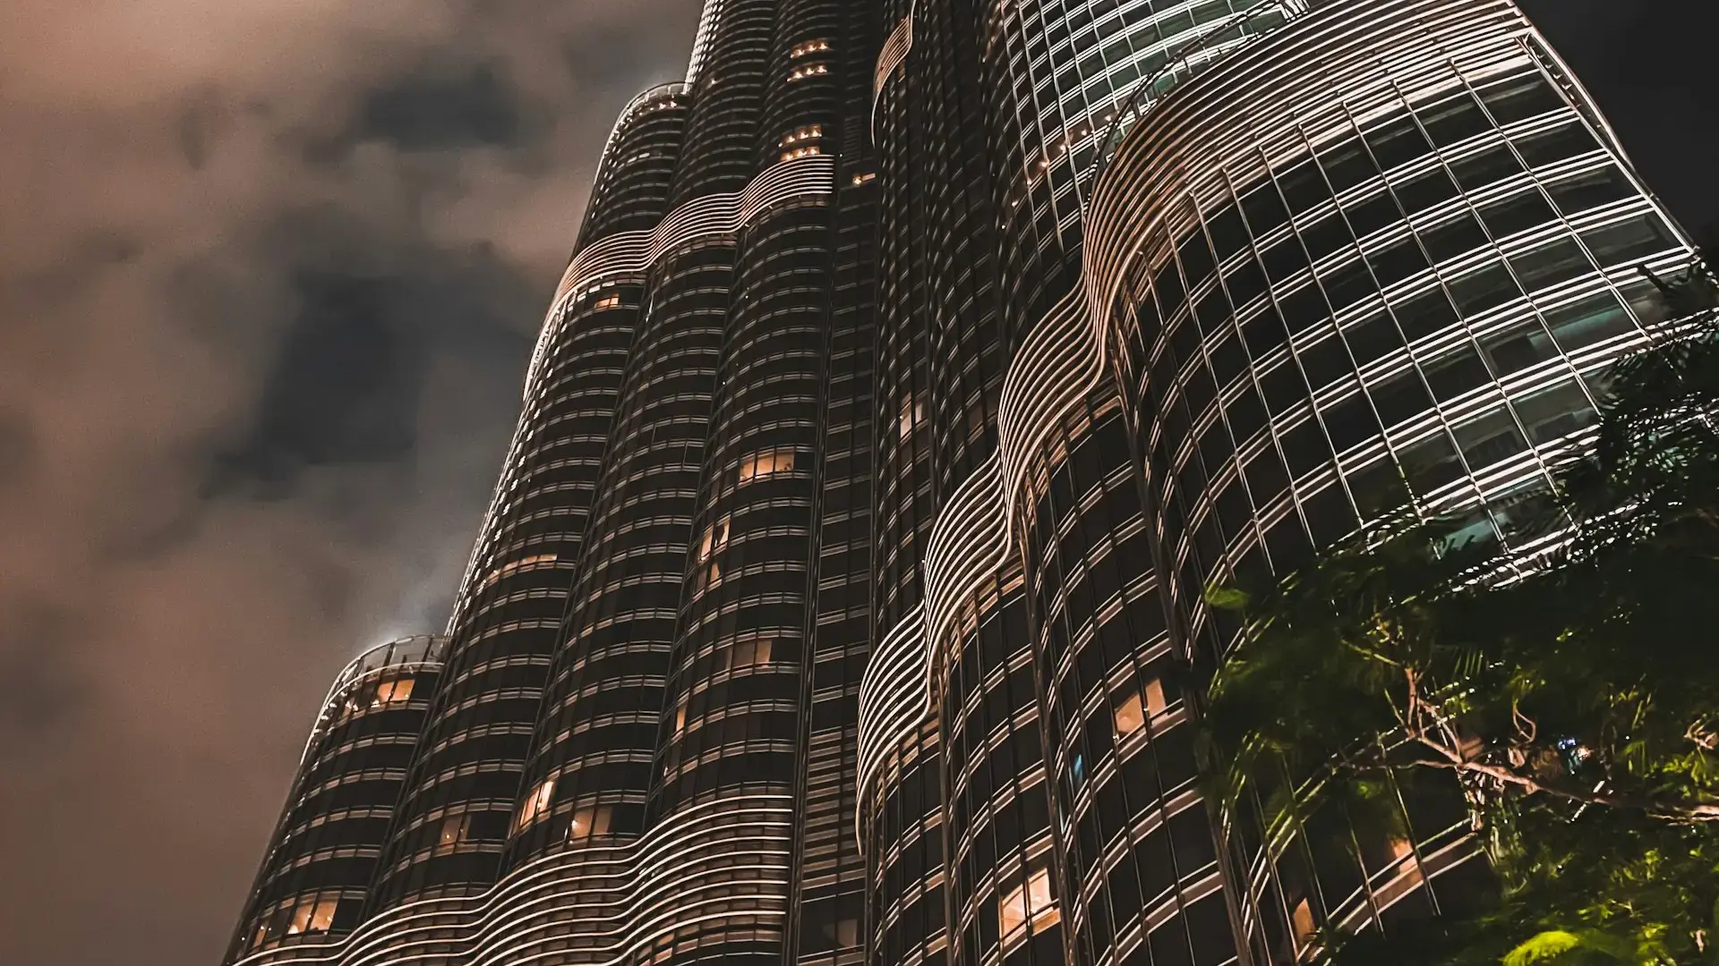
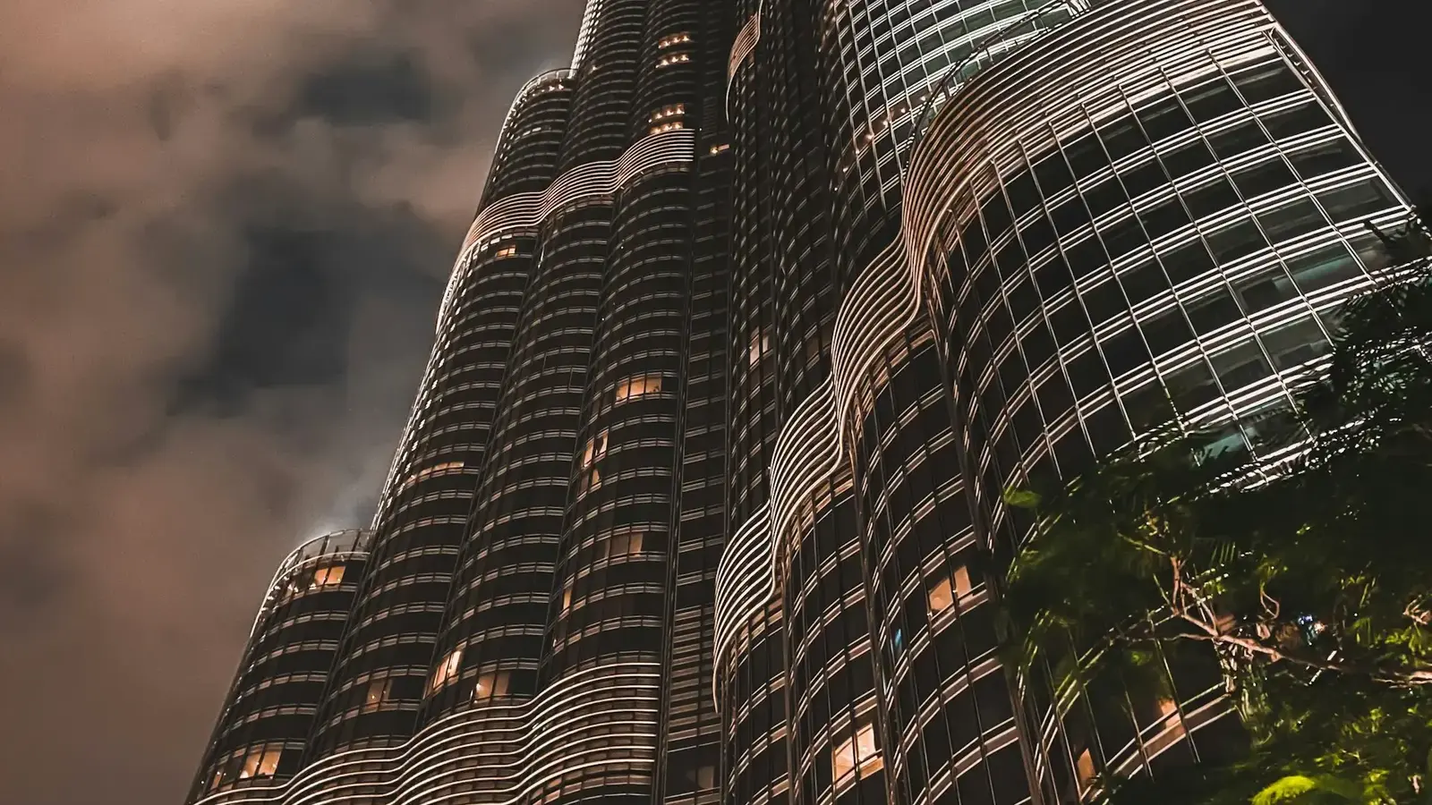
Remove top bar, 16-slide faster hero, 3D feature boxes, mobile single-row sliders, one-row buttons
Claude-Session: https://claude.ai/code/session_017Zx5MrG8DFua7md2Xi5BTB

Changed region(s): [[0.5938, 0.0, 0.6562, 0.1556], [0.3438, 0.1556, 0.4688, 0.28], [0.5, 0.7156, 0.5312, 0.7467]]

diff --git a/index.html b/index.html
@@ -21,7 +21,7 @@
 <div id="site-header"></div>
 <main id="main">
 <section class="hero">
-  <div class="hero__slides"><div class="hero__slide is-active" data-caption="Dubai · UAE"><img src="assets/img/dubai-skyline.webp" alt="Dubai skyline at dusk" fetchpriority="high"></div><div class="hero__slide" data-caption="General Contracting"><img src="assets/img/hero-construction.webp" alt="Tower cranes over a high-rise under construction" loading="lazy"></div><div class="hero__slide" data-caption="Villas &amp; Residential"><img src="assets/img/hero-villa.webp" alt="Modern luxury villa with pool" loading="lazy"></div><div class="hero__slide" data-caption="Project Management"><img src="assets/img/hero-engineers.webp" alt="Engineers reviewing progress on site" loading="lazy"></div><div class="hero__slide" data-caption="Steel Structures"><img src="assets/img/steel-structure.webp" alt="Steel structure erection" loading="lazy"></div><div class="hero__slide" data-caption="Commercial Towers"><img src="assets/img/hero-burj.webp" alt="Burj Khalifa and downtown Dubai" loading="lazy"></div><div class="hero__slide" data-caption="Interior Fit-Out"><img src="assets/img/fitout-office.webp" alt="Premium office interior fit-out" loading="lazy"></div><div class="hero__slide" data-caption="Infrastructure"><img src="assets/img/hero-cranes-dusk.webp" alt="Cranes against the evening sky" loading="lazy"></div></div>
+  <div class="hero__slides"><div class="hero__slide is-active" data-caption="Dubai · UAE"><img src="assets/img/dubai-skyline.webp" alt="Dubai skyline at dusk" fetchpriority="high"></div><div class="hero__slide" data-caption="General Contracting"><img src="assets/img/hero-construction.webp" alt="Tower cranes over a high-rise under construction"></div><div class="hero__slide" data-caption="Villas &amp; Residential"><img src="assets/img/hero-villa.webp" alt="Modern luxury villa with pool" loading="lazy"></div><div class="hero__slide" data-caption="Project Management"><img src="assets/img/hero-engineers.webp" alt="Engineers reviewing progress on site" loading="lazy"></div><div class="hero__slide" data-caption="Structural Works"><img src="assets/img/hero-frame.webp" alt="Building frame under construction" loading="lazy"></div><div class="hero__slide" data-caption="Interior Fit-Out"><img src="assets/img/hero-interior.webp" alt="Luxury residential interior" loading="lazy"></div><div class="hero__slide" data-caption="Commercial Towers"><img src="assets/img/hero-burj.webp" alt="Burj Khalifa and downtown Dubai" loading="lazy"></div><div class="hero__slide" data-caption="Civil Works"><img src="assets/img/hero-rebar.webp" alt="Workers fixing reinforcement on site" loading="lazy"></div><div class="hero__slide" data-caption="Turnkey Villas"><img src="assets/img/hero-villa-pool.webp" alt="Contemporary villa with infinity pool" loading="lazy"></div><div class="hero__slide" data-caption="Steel Structures"><img src="assets/img/steel-structure.webp" alt="Steel structure erection" loading="lazy"></div><div class="hero__slide" data-caption="Residential Fit-Out"><img src="assets/img/hero-kitchen.webp" alt="Premium kitchen fit-out" loading="lazy"></div><div class="hero__slide" data-caption="Site Management"><img src="assets/img/hero-siteteam.webp" alt="Site team on a construction project" loading="lazy"></div><div class="hero__slide" data-caption="Commercial Buildings"><img src="assets/img/hero-architecture.webp" alt="Modern architecture" loading="lazy"></div><div class="hero__slide" data-caption="Luxury Homes"><img src="assets/img/hero-villa-white.webp" alt="White modern villa" loading="lazy"></div><div class="hero__slide" data-caption="Infrastructure"><img src="assets/img/hero-crane-sunset.webp" alt="Crane at sunset" loading="lazy"></div><div class="hero__slide" data-caption="Development"><img src="assets/img/hero-cranes-dusk.webp" alt="Cranes against the evening sky" loading="lazy"></div></div>
   <div class="hero__grid"></div>
   <span class="hero__bgword" aria-hidden="true">BUILD</span>
   <div class="wrap">
@@ -40,12 +40,12 @@
     <div class="core"><div><strong>40+</strong><small>Years</small></div></div>
   </div>
   <div class="hero__meta"><div class="wrap">
-    <div class="hero__count"><b class="hero__cur">01</b><span>/ 08</span><em class="hero__cap">Dubai · UAE</em></div>
+    <div class="hero__count"><b class="hero__cur">01</b><span>/ 16</span><em class="hero__cap">Dubai · UAE</em></div>
     <div class="hero__dots" aria-label="Slides"></div>
     <div class="hero__arrows"><button type="button" class="hero__prev" aria-label="Previous slide"><i data-lucide="arrow-left"></i></button><button type="button" class="hero__next" aria-label="Next slide"><i data-lucide="arrow-right"></i></button></div>
   </div></div>
 </section>
-<section class="fstrip-sec"><div class="wrap"><div class="fstrip"><div class="fbox reveal" style="--d:0.00s"><span class="fbox__no">01</span><span class="cube"><i data-lucide="key-round"></i></span><div><h3>Turnkey Projects</h3><p>Design coordination to handover, under one contract.</p></div></div><div class="fbox reveal" style="--d:0.12s"><span class="fbox__no">02</span><span class="cube"><i data-lucide="badge-check"></i></span><div><h3>Assured Quality</h3><p>Inspections at every stage against approved drawings.</p></div></div><div class="fbox reveal" style="--d:0.24s"><span class="fbox__no">03</span><span class="cube"><i data-lucide="hard-hat"></i></span><div><h3>Safety First</h3><p>Strict HSE rules on every EMARCON site.</p></div></div><div class="fbox reveal" style="--d:0.36s"><span class="fbox__no">04</span><span class="cube"><i data-lucide="headset"></i></span><div><h3>24/7 Support</h3><p>Emergency maintenance response across the UAE.</p></div></div></div></div></section>
+<section class="fstrip-sec"><div class="wrap"><div class="fstrip" data-mslide><div class="fbox reveal" style="--d:0.00s"><span class="fbox__no">01</span><span class="cube"><i data-lucide="key-round"></i></span><div><h3>Turnkey Projects</h3><p>Design coordination to handover, under one contract.</p></div></div><div class="fbox reveal" style="--d:0.12s"><span class="fbox__no">02</span><span class="cube"><i data-lucide="badge-check"></i></span><div><h3>Assured Quality</h3><p>Inspections at every stage against approved drawings.</p></div></div><div class="fbox reveal" style="--d:0.24s"><span class="fbox__no">03</span><span class="cube"><i data-lucide="hard-hat"></i></span><div><h3>Safety First</h3><p>Strict HSE rules on every EMARCON site.</p></div></div><div class="fbox reveal" style="--d:0.36s"><span class="fbox__no">04</span><span class="cube"><i data-lucide="headset"></i></span><div><h3>24/7 Support</h3><p>Emergency maintenance response across the UAE.</p></div></div></div></div></section>
 
 <section class="section">
   <span class="bg-word bg-word--right" aria-hidden="true">EMARCON</span>
@@ -68,7 +68,7 @@
           <li><i data-lucide="circle-check"></i>Planning &amp; budgeting</li>
           <li><i data-lucide="circle-check"></i>On-time project handover</li>
         </ul>
-        <div style="display:flex;gap:1.5rem;align-items:center;flex-wrap:wrap;margin-top:.6rem">
+        <div class="about-cta">
           <a class="btn btn--dark" href="about.html">Read More <i data-lucide="arrow-right"></i></a>
           <a class="link-arrow" href="tel:+971543931009"><i data-lucide="phone"></i> +971 54 393 1009</a>
         </div>
@@ -205,7 +205,7 @@
   <span class="bg-word bg-word--light" aria-hidden="true">SINCE FOUR DECADES</span>
   <div class="wrap">
     <div class="section-head section-head--center"><span class="eyebrow reveal">Our legacy in numbers</span><h2 class="h-section reveal">Experience You Can <em>Build On</em></h2></div>
-    <div class="st-grid"><div class="st-card reveal" style="--d:0.00s"><span class="st-card__ico"><i data-lucide="calendar-clock"></i></span><div class="stat__num" data-count="40">40<sup>+</sup></div><div class="st-card__label">Years of legacy</div><p>Four decades of construction experience</p><span class="st-card__bar"></span></div><div class="st-card reveal" style="--d:0.12s"><span class="st-card__ico"><i data-lucide="hard-hat"></i></span><div class="stat__num" data-count="4">4<sup></sup></div><div class="st-card__label">Core services</div><p>Civil, steel, fit-out &amp; maintenance</p><span class="st-card__bar"></span></div><div class="st-card reveal" style="--d:0.24s"><span class="st-card__ico"><i data-lucide="network"></i></span><div class="stat__num" data-count="4">4<sup></sup></div><div class="st-card__label">Group companies</div><p>MEP, manufacturing, trading &amp; FM</p><span class="st-card__bar"></span></div><div class="st-card reveal" style="--d:0.36s"><span class="st-card__ico"><i data-lucide="shield-check"></i></span><div class="stat__num" data-count="24">24<sup>/7</sup></div><div class="st-card__label">Support</div><p>Emergency maintenance response</p><span class="st-card__bar"></span></div></div>
+    <div class="st-grid" data-mslide><div class="st-card reveal" style="--d:0.00s"><span class="st-card__ico"><i data-lucide="calendar-clock"></i></span><div class="stat__num" data-count="40">40<sup>+</sup></div><div class="st-card__label">Years of legacy</div><p>Four decades of construction experience</p><span class="st-card__bar"></span></div><div class="st-card reveal" style="--d:0.12s"><span class="st-card__ico"><i data-lucide="hard-hat"></i></span><div class="stat__num" data-count="4">4<sup></sup></div><div class="st-card__label">Core services</div><p>Civil, steel, fit-out &amp; maintenance</p><span class="st-card__bar"></span></div><div class="st-card reveal" style="--d:0.24s"><span class="st-card__ico"><i data-lucide="network"></i></span><div class="stat__num" data-count="4">4<sup></sup></div><div class="st-card__label">Group companies</div><p>MEP, manufacturing, trading &amp; FM</p><span class="st-card__bar"></span></div><div class="st-card reveal" style="--d:0.36s"><span class="st-card__ico"><i data-lucide="shield-check"></i></span><div class="stat__num" data-count="24">24<sup>/7</sup></div><div class="st-card__label">Support</div><p>Emergency maintenance response</p><span class="st-card__bar"></span></div></div>
   </div>
 </section>
 
@@ -217,7 +217,7 @@
       <h2 class="h-section reveal">Why You <em>Choose</em> Us</h2>
       <p class="lead reveal">EMARCON CONTRACTING LLC is incorporated in the UAE with a dynamic and strong future outlook to provide the best services in the region.</p>
     </div>
-    <div class="why-grid"><article class="w3d reveal" style="--d:0.00s" data-tilt>
+    <div class="why-grid" data-mslide><article class="w3d reveal" style="--d:0.00s" data-tilt>
       <div class="w3d__inner"><span class="w3d__no">01</span>
         <div class="w3d__icon"><span class="w3d__face"><i data-lucide="handshake"></i></span><span class="w3d__shadow"></span></div>
         <h3>Reliability</h3><p>Cost-effective solutions with a focus on long-term value.</p></div></article><article class="w3d reveal" style="--d:0.12s" data-tilt>

diff --git a/assets/css/style.css b/assets/css/style.css
@@ -1030,3 +1030,80 @@ section { position: relative; }
   .w3d h3 { font-size: 1.05rem; }
   .w3d p { font-size: .82rem; line-height: 1.5; }
 }
+
+/* =========================================================
+   v3 — separate 3D boxes, mobile single-row sliders
+   ========================================================= */
+.mslide { position: relative; }
+.is-clone { display: none !important; }
+.hero { --interval: 3s; }
+
+/* feature boxes as separate 3D cards */
+.fstrip { background: transparent; box-shadow: none; gap: 1.4rem; perspective: 1000px; }
+.fbox, .fbox + .fbox {
+  border: 1px solid rgba(201,165,91,.25); border-radius: 10px; background: var(--white);
+  box-shadow: 0 1px 0 rgba(255,255,255,.8) inset, 0 6px 0 -1px #d9c08a, 0 8px 0 -1px var(--gold-deep), 0 26px 40px -18px rgba(13,24,40,.45);
+  transform: translateZ(0) rotateX(6deg); transform-origin: bottom center;
+  transition: transform .5s var(--ease), box-shadow .5s var(--ease), color .45s;
+}
+.fbox:hover { transform: translateY(-10px) rotateX(0); box-shadow: 0 1px 0 rgba(255,255,255,.1) inset, 0 6px 0 -1px var(--gold-deep), 0 8px 0 -1px #7d5f25, 0 40px 60px -22px rgba(13,24,40,.6); }
+.fbox::before { border-radius: 10px; }
+.fbox::after { border-radius: 0 0 10px 10px; }
+.js .fbox.reveal { transform: translateY(40px) rotateX(25deg); }
+.js .fbox.reveal.is-in { transform: translateZ(0) rotateX(6deg); }
+.js .fbox.reveal.is-in:hover { transform: translateY(-10px) rotateX(0); }
+
+/* about images with depth */
+.media-stack__main { box-shadow: 0 40px 70px -30px rgba(13,24,40,.55), 0 12px 24px -12px rgba(13,24,40,.35); border-radius: 6px; }
+.media-stack__sub { box-shadow: 0 30px 60px -20px rgba(13,24,40,.6); border-radius: 6px; }
+.media-stack__tag { border-radius: 6px; box-shadow: 0 24px 40px -16px rgba(13,24,40,.7); }
+.about-cta { display: flex; gap: 1.5rem; align-items: center; flex-wrap: wrap; margin-top: .6rem; }
+
+/* hero arrows/badge spacing without topbar */
+.hero { min-height: min(860px, calc(100svh - var(--header-h))); }
+
+@media (max-width: 720px) {
+  /* hero buttons in one row */
+  .hero__actions { flex-wrap: nowrap; gap: .6rem; }
+  .hero__actions .btn { flex: 1 1 0; min-width: 0; padding: .85rem .6rem; font-size: .72rem; letter-spacing: .05em; white-space: nowrap; }
+  .hero__actions .btn svg { width: 15px; height: 15px; }
+
+  /* read more + phone in one row */
+  .about-cta { flex-wrap: nowrap; gap: .9rem; }
+  .about-cta .btn { padding: .85rem 1rem; font-size: .75rem; white-space: nowrap; }
+  .about-cta .link-arrow { font-size: .78rem; white-space: nowrap; letter-spacing: .04em; }
+
+  /* generic single-row auto slider */
+  .mslide { overflow: hidden; margin-inline: calc(-1 * max(20px, env(safe-area-inset-left, 0px))); -webkit-mask-image: linear-gradient(90deg, transparent, #000 6%, #000 94%, transparent); mask-image: linear-gradient(90deg, transparent, #000 6%, #000 94%, transparent); }
+  .mslide > [data-mslide] { display: flex !important; flex-wrap: nowrap; width: max-content; gap: 1rem; padding: 14px 0 22px; animation: mq-left var(--mspeed, 30s) linear infinite; }
+  .mslide > [data-mslide] > * { margin-right: 0; }
+  .mslide:active > [data-mslide], .mslide:hover > [data-mslide] { animation-play-state: paused; }
+  .mslide .is-clone { display: flex !important; }
+  .mslide .st-card.is-clone, .mslide .fbox.is-clone { display: flex !important; }
+  .mslide .w3d.is-clone { display: block !important; }
+  .js .mslide .reveal { opacity: 1; transform: none; }
+  /* gap trick: half-width translate must include trailing gap */
+  .mslide > [data-mslide] { padding-right: 1rem; }
+
+  .fstrip-sec { margin-top: -60px; }
+  .fstrip { --mspeed: 22s; }
+  .fstrip .fbox, .fstrip .fbox + .fbox { width: 250px; flex: none; flex-direction: row; align-items: flex-start; padding: 1.3rem 1.1rem; border: 1px solid rgba(201,165,91,.25); transform: none; }
+  .js .mslide .fbox.reveal, .js .mslide .fbox.reveal.is-in { transform: none; }
+  .fbox:nth-child(even), .fbox:nth-child(n+3) { border-left: 1px solid rgba(201,165,91,.25); border-top: 1px solid rgba(201,165,91,.25); }
+
+  .st-grid { --mspeed: 26s; }
+  .st-grid .st-card { width: 230px; flex: none; flex-direction: column; }
+  .st-card p { display: block; }
+
+  .why-grid { --mspeed: 34s; }
+  .why-grid .w3d { width: 260px; flex: none; }
+  .w3d__inner { padding: 1.8rem 1.4rem; }
+  .w3d__icon { width: 66px; height: 66px; }
+  .w3d h3 { font-size: 1.15rem; }
+  .w3d p { font-size: .88rem; }
+}
+@media (prefers-reduced-motion: reduce) {
+  .mslide > [data-mslide] { animation: none !important; }
+  .mslide { overflow-x: auto; }
+}
+@media (max-width: 720px) { .hero__arrows { display: none; } }

diff --git a/assets/js/main.js b/assets/js/main.js
@@ -45,18 +45,6 @@
 
   /* ---------- header ---------- */
   var header =
-    '<div class="topbar"><div class="wrap">' +
-      '<div class="topbar__info">' +
-        '<a href="' + tel(SITE.phones[0]) + '"><i data-lucide="phone"></i>' + SITE.phones[0] + "</a>" +
-        '<a href="mailto:' + SITE.emails[0] + '"><i data-lucide="mail"></i>' + SITE.emails[0] + "</a>" +
-        '<span class="hide-sm"><i data-lucide="map-pin"></i>' + SITE.address + "</span>" +
-      "</div>" +
-      '<div class="topbar__social"><span><i data-lucide="clock"></i>' + SITE.hours + "</span>" +
-        '<a href="' + SITE.social.facebook + '" aria-label="Facebook"><i data-lucide="facebook"></i></a>' +
-        '<a href="' + SITE.social.instagram + '" aria-label="Instagram"><i data-lucide="instagram"></i></a>' +
-        '<a href="' + SITE.social.linkedin + '" aria-label="LinkedIn"><i data-lucide="linkedin"></i></a>' +
-      "</div>" +
-    "</div></div>" +
     '<header class="header" id="header"><div class="wrap">' +
       '<a class="brand" href="index.html" aria-label="EMARCON home"><img src="assets/img/logo-dark.png" alt="EMARCON Contracting L.L.C" width="520" height="205"></a>' +
       '<nav aria-label="Main"><ul class="nav">' +
@@ -275,6 +263,15 @@
   });
   function fallbackCopy(t) { var ta = document.createElement("textarea"); ta.value = t; document.body.appendChild(ta); ta.select(); try { document.execCommand("copy"); } catch (er) {} ta.remove(); }
 
+  /* ---------- single-row auto sliders on mobile ---------- */
+  document.querySelectorAll("[data-mslide]").forEach(function (track) {
+    var vp = document.createElement("div"); vp.className = "mslide";
+    track.parentNode.insertBefore(vp, track); vp.appendChild(track);
+    Array.prototype.slice.call(track.children).forEach(function (c) {
+      var cl = c.cloneNode(true); cl.classList.add("is-clone"); cl.setAttribute("aria-hidden", "true"); track.appendChild(cl);
+    });
+  });
+
   /* ---------- reveal on scroll ---------- */
   var revealEls = document.querySelectorAll(".reveal, .img-reveal");
   if ("IntersectionObserver" in window) {
@@ -302,13 +299,14 @@
   var dotsWrap = document.querySelector(".hero__dots");
   if (slides.length > 1 && dotsWrap) {
     var heroEl = document.querySelector(".hero");
-    var INTERVAL = 4200, cur = 0, timer;
+    var INTERVAL = 3000, cur = 0, timer;
     var curEl = document.querySelector(".hero__cur"), capEl = document.querySelector(".hero__cap");
     heroEl.style.setProperty("--interval", INTERVAL / 1000 + "s");
     slides.forEach(function (_, i) { var b = document.createElement("button"); b.type = "button"; b.setAttribute("aria-label", "Slide " + (i + 1)); b.addEventListener("click", function () { go(i); }); dotsWrap.appendChild(b); });
     var dots = dotsWrap.querySelectorAll("button");
     // warm the next images so slides change instantly
-    slides.forEach(function (sl) { var im = sl.querySelector("img"); if (im) im.loading = "eager"; });
+    function preload(n) { for (var k = 1; k <= n; k++) { var im = slides[(cur + k) % slides.length].querySelector("img"); if (im && im.loading === "lazy") im.loading = "eager"; } }
+    window.addEventListener("load", function () { slides.forEach(function (sl, k) { setTimeout(function () { var im = sl.querySelector("img"); if (im) im.loading = "eager"; }, 300 + k * 150); }); });
     function go(i) {
       slides[cur].classList.remove("is-active"); dots[cur].classList.remove("is-active");
       cur = (i + slides.length) % slides.length;
@@ -316,6 +314,7 @@
       slides[cur].classList.add("is-active"); void dots[cur].offsetWidth; dots[cur].classList.add("is-active");
       if (curEl) curEl.textContent = (cur + 1 < 10 ? "0" : "") + (cur + 1);
       if (capEl) { capEl.textContent = slides[cur].getAttribute("data-caption") || ""; capEl.style.animation = "none"; void capEl.offsetWidth; capEl.style.animation = ""; }
+      preload(2);
       clearTimeout(timer); timer = setTimeout(function () { go(cur + 1); }, INTERVAL);
     }
     var pv = document.querySelector(".hero__prev"), nx = document.querySelector(".hero__next");

diff --git a/projects.html b/projects.html
@@ -144,7 +144,7 @@
     </a></div>
   </div>
 </section>
-<section class="section blueprint"><div class="wrap"><div class="st-grid"><div class="st-card reveal" style="--d:0.00s"><span class="st-card__ico"><i data-lucide="calendar-clock"></i></span><div class="stat__num" data-count="40">40<sup>+</sup></div><div class="st-card__label">Years of legacy</div><p>Four decades of construction experience</p><span class="st-card__bar"></span></div><div class="st-card reveal" style="--d:0.12s"><span class="st-card__ico"><i data-lucide="hard-hat"></i></span><div class="stat__num" data-count="4">4<sup></sup></div><div class="st-card__label">Core services</div><p>Civil, steel, fit-out &amp; maintenance</p><span class="st-card__bar"></span></div><div class="st-card reveal" style="--d:0.24s"><span class="st-card__ico"><i data-lucide="network"></i></span><div class="stat__num" data-count="4">4<sup></sup></div><div class="st-card__label">Group companies</div><p>MEP, manufacturing, trading &amp; FM</p><span class="st-card__bar"></span></div><div class="st-card reveal" style="--d:0.36s"><span class="st-card__ico"><i data-lucide="shield-check"></i></span><div class="stat__num" data-count="24">24<sup>/7</sup></div><div class="st-card__label">Support</div><p>Emergency maintenance response</p><span class="st-card__bar"></span></div></div></div></section>
+<section class="section blueprint"><div class="wrap"><div class="st-grid" data-mslide><div class="st-card reveal" style="--d:0.00s"><span class="st-card__ico"><i data-lucide="calendar-clock"></i></span><div class="stat__num" data-count="40">40<sup>+</sup></div><div class="st-card__label">Years of legacy</div><p>Four decades of construction experience</p><span class="st-card__bar"></span></div><div class="st-card reveal" style="--d:0.12s"><span class="st-card__ico"><i data-lucide="hard-hat"></i></span><div class="stat__num" data-count="4">4<sup></sup></div><div class="st-card__label">Core services</div><p>Civil, steel, fit-out &amp; maintenance</p><span class="st-card__bar"></span></div><div class="st-card reveal" style="--d:0.24s"><span class="st-card__ico"><i data-lucide="network"></i></span><div class="stat__num" data-count="4">4<sup></sup></div><div class="st-card__label">Group companies</div><p>MEP, manufacturing, trading &amp; FM</p><span class="st-card__bar"></span></div><div class="st-card reveal" style="--d:0.36s"><span class="st-card__ico"><i data-lucide="shield-check"></i></span><div class="stat__num" data-count="24">24<sup>/7</sup></div><div class="st-card__label">Support</div><p>Emergency maintenance response</p><span class="st-card__bar"></span></div></div></div></section>
 </main>
 <div id="site-footer"></div>
 <script src="assets/js/lucide.min.js"></script>

diff --git a/about.html b/about.html
@@ -61,7 +61,7 @@
 </section>
 
 <section class="section blueprint">
-  <div class="wrap"><div class="st-grid"><div class="st-card reveal" style="--d:0.00s"><span class="st-card__ico"><i data-lucide="calendar-clock"></i></span><div class="stat__num" data-count="40">40<sup>+</sup></div><div class="st-card__label">Years of legacy</div><p>Four decades of construction experience</p><span class="st-card__bar"></span></div><div class="st-card reveal" style="--d:0.12s"><span class="st-card__ico"><i data-lucide="hard-hat"></i></span><div class="stat__num" data-count="4">4<sup></sup></div><div class="st-card__label">Core services</div><p>Civil, steel, fit-out &amp; maintenance</p><span class="st-card__bar"></span></div><div class="st-card reveal" style="--d:0.24s"><span class="st-card__ico"><i data-lucide="network"></i></span><div class="stat__num" data-count="4">4<sup></sup></div><div class="st-card__label">Group companies</div><p>MEP, manufacturing, trading &amp; FM</p><span class="st-card__bar"></span></div><div class="st-card reveal" style="--d:0.36s"><span class="st-card__ico"><i data-lucide="shield-check"></i></span><div class="stat__num" data-count="24">24<sup>/7</sup></div><div class="st-card__label">Support</div><p>Emergency maintenance response</p><span class="st-card__bar"></span></div></div></div>
+  <div class="wrap"><div class="st-grid" data-mslide><div class="st-card reveal" style="--d:0.00s"><span class="st-card__ico"><i data-lucide="calendar-clock"></i></span><div class="stat__num" data-count="40">40<sup>+</sup></div><div class="st-card__label">Years of legacy</div><p>Four decades of construction experience</p><span class="st-card__bar"></span></div><div class="st-card reveal" style="--d:0.12s"><span class="st-card__ico"><i data-lucide="hard-hat"></i></span><div class="stat__num" data-count="4">4<sup></sup></div><div class="st-card__label">Core services</div><p>Civil, steel, fit-out &amp; maintenance</p><span class="st-card__bar"></span></div><div class="st-card reveal" style="--d:0.24s"><span class="st-card__ico"><i data-lucide="network"></i></span><div class="stat__num" data-count="4">4<sup></sup></div><div class="st-card__label">Group companies</div><p>MEP, manufacturing, trading &amp; FM</p><span class="st-card__bar"></span></div><div class="st-card reveal" style="--d:0.36s"><span class="st-card__ico"><i data-lucide="shield-check"></i></span><div class="stat__num" data-count="24">24<sup>/7</sup></div><div class="st-card__label">Support</div><p>Emergency maintenance response</p><span class="st-card__bar"></span></div></div></div>
 </section>
 
 <section class="section section--paper">
